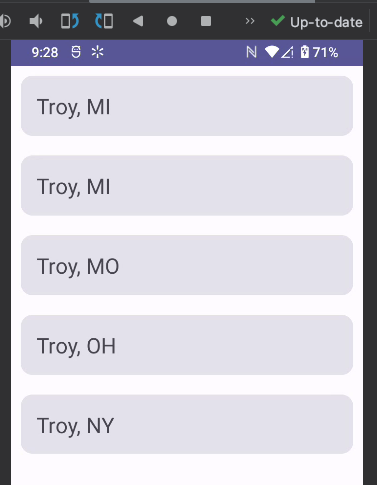
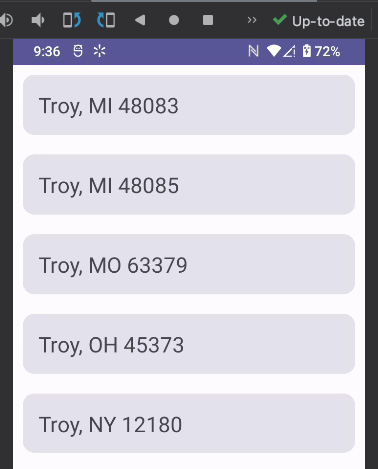
Finished Compose module with end-to-end working app.

diff --git a/feature/src/main/java/com/santansarah/feature/CityListPage.kt b/feature/src/main/java/com/santansarah/feature/CityListPage.kt
@@ -47,7 +47,7 @@ fun CountryListPage(
                         ) {
                             Text(
                                 modifier = Modifier.padding(16.dp),
-                                text = it.city + ", " + it.state,
+                                text = it.city + ", " + it.state + " " + it.zip.toString(),
                                 style = MaterialTheme.typography.titleLarge
                             )
                         }
